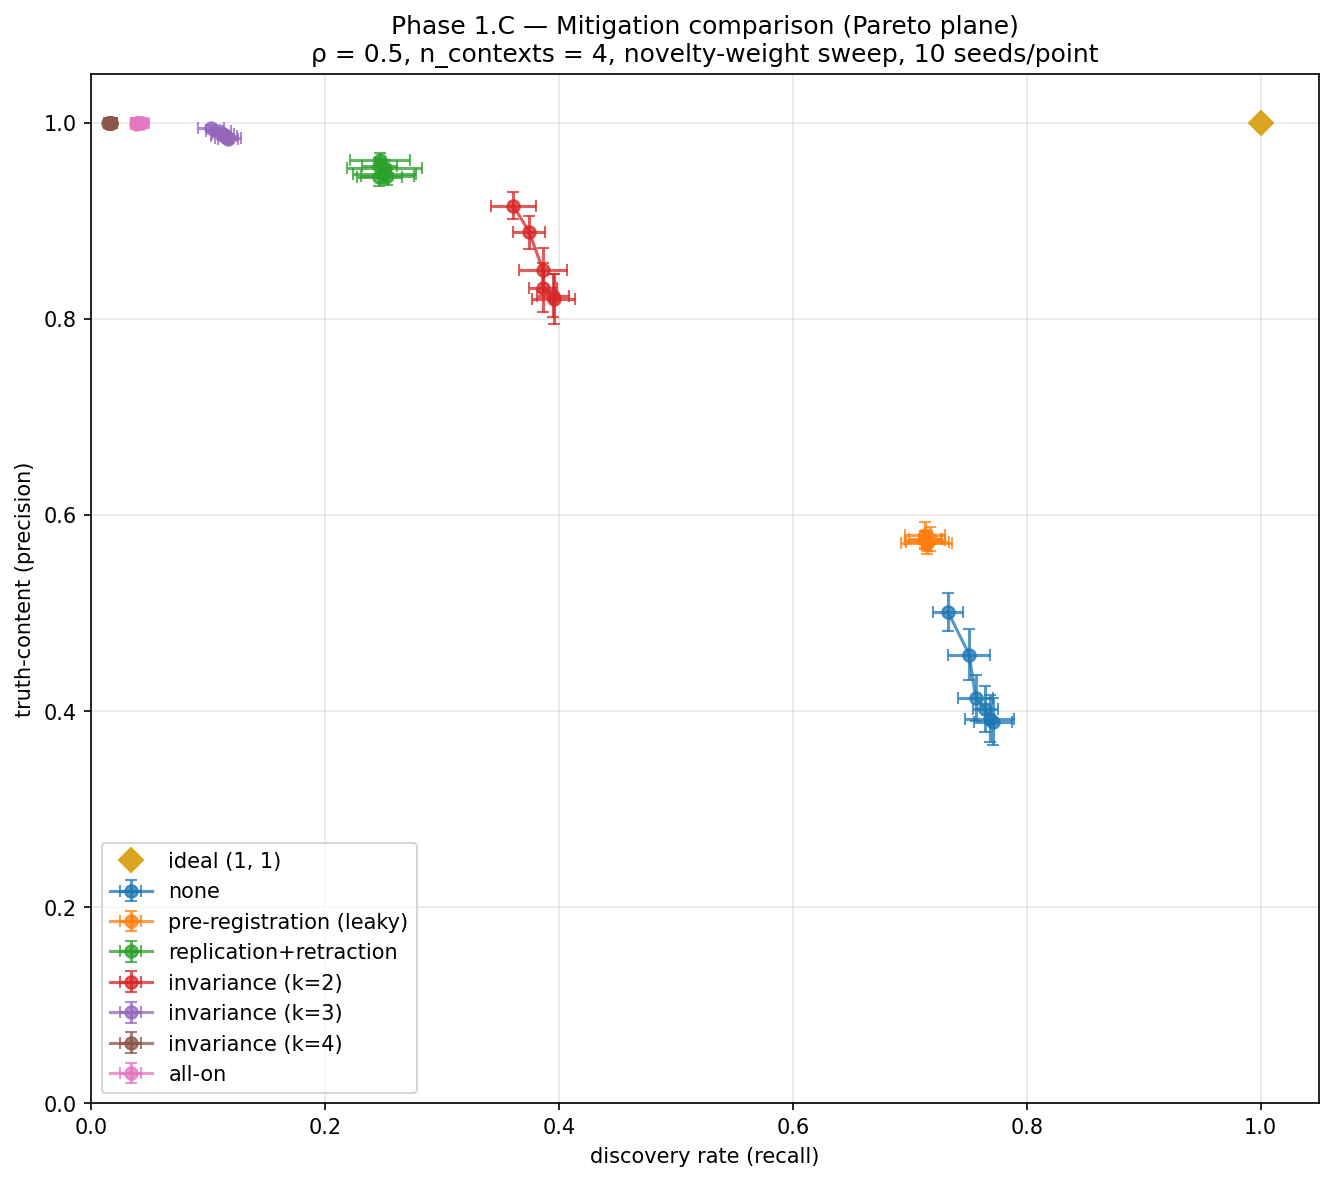
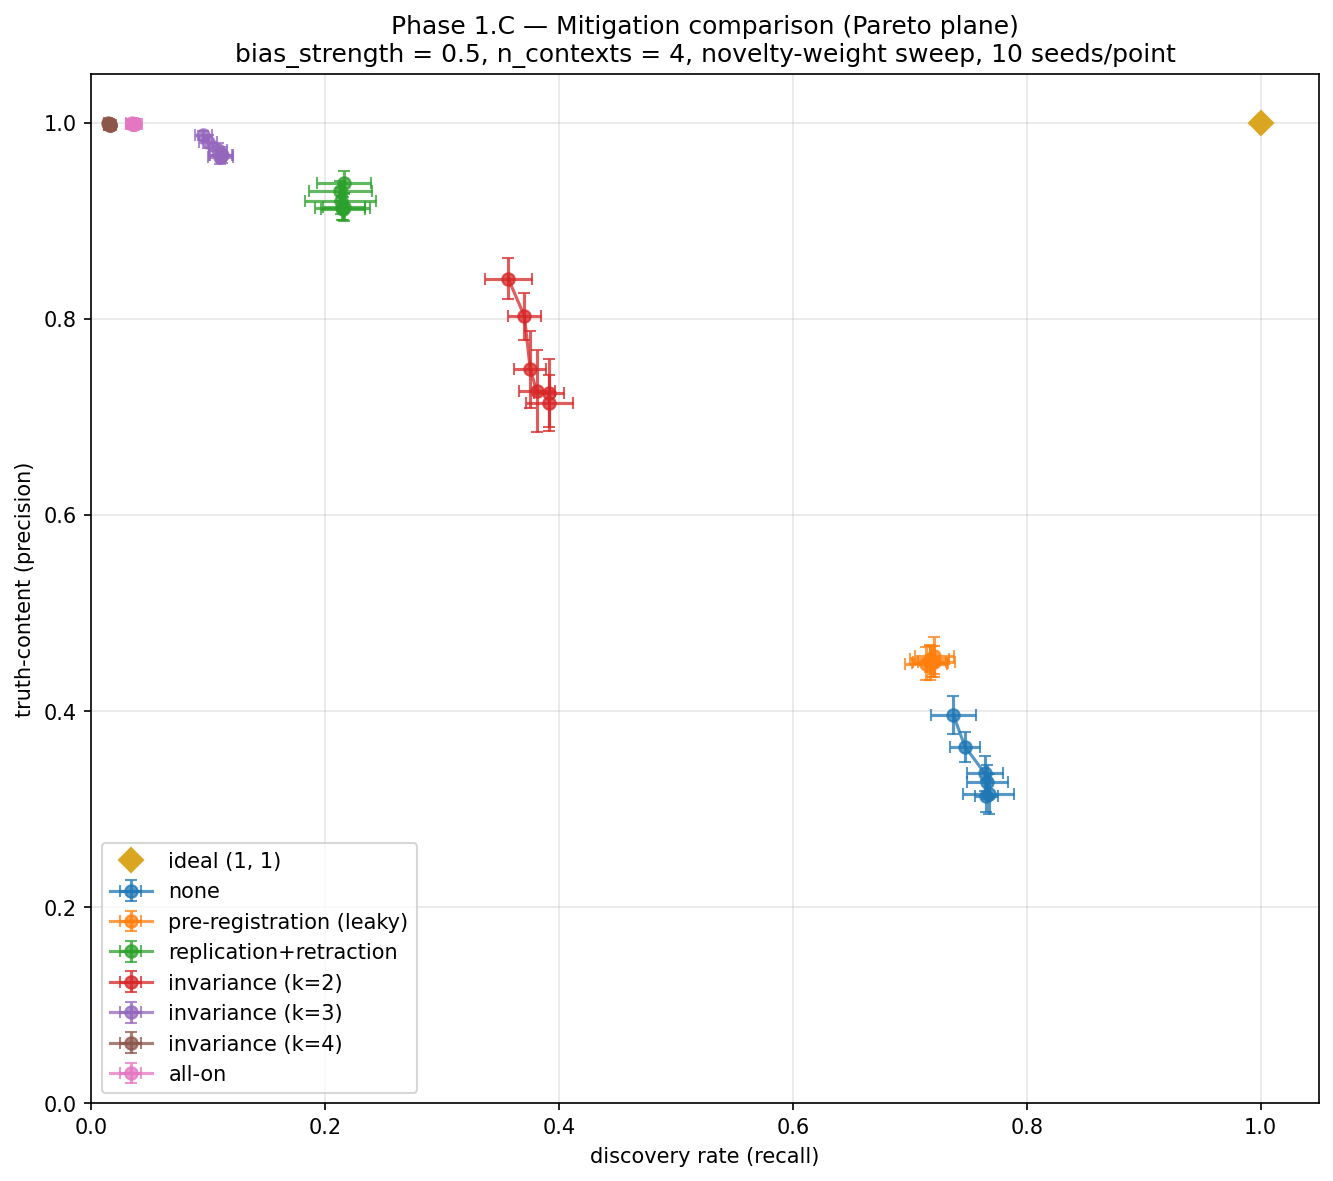
Phase 1.C: re-run under additive-bias noise model
Same regime as before (n_hypotheses=10000, n_contexts=4, n_steps=500,
10 seeds, mitigations identical) but bias_strength=0.5 replaces the prior
correlated_error_rho=0.5. The corrected noise model is additive
(Z = δ + bias + private, bias ~ N(0, bias_strength²), private ~ N(0, 1))
so Var(Z) under H0 = 1.25 (not 1) at this parameter value — that lifts
average FPR somewhat and pulls all the precision numbers down 5-10 pp
relative to the prior run.

Qualitative shape: unchanged. Same multi-mitigation Pareto frontier,
same ordering, same headline (no single dominant mitigation; pre-reg
leaky / invariance k=2 / R+R / invariance k=3 all populate the frontier
at different trade-off points). The strict-invariance data-hungriness
finding holds; the leaky-pre-reg-dominates-none finding holds.

Updated example-runs/README.md with new numbers and an explicit note on
the noise-model change.

Also restored the Phase 1.D sweep script as scripts/run_bias_sensitivity.py
(renamed from the pre-noise-fix run_rho_sensitivity.py; parameter and
docstring updated for the corrected model). Ready to run; result is
expected to look very different from the broken-model Phase 1.D since the
artifact (audit-private-noise shrinkage at high rho) is now gone.

diff --git a/scripts/run_bias_sensitivity.py b/scripts/run_bias_sensitivity.py
@@ -1,0 +1,250 @@
+"""Phase 1.D — systematic-bias sensitivity sweep.
+
+The central falsifiable claim: *invariance-style mitigations dominate
+audit-style ones under sufficiently strong systematic bias.*
+
+Phase 1.C showed all four mitigations sitting on a Pareto frontier at a
+single bias_strength = 0.5. This script traces how each mitigation's position
+moves as bias_strength varies, holding everything else fixed. The prediction
+under the corrected (additive) noise model:
+
+  * `none`, `pre-registration (leaky)`: precision approximately bias-independent
+    (neither addresses the per-(h, ctx) systematic bias mechanism — pre-reg
+    clamps QRP, neither touches the bias).
+  * `replication+retraction`: precision *falls* as bias_strength rises. The
+    audit replicate uses the SAME per-(hypothesis, context) bias as the
+    original study, so a lucky positive-bias FP gets confirmed by the audit
+    (the bias that drove the original FP also pushes the audit Z above the
+    threshold). The audit's *private* noise is fresh and unchanged in scale —
+    it can no longer artificially shrink with bias_strength, so it doesn't
+    rescue the audit at high bias.
+  * `invariance (k=2)`: precision approximately bias-independent or rising.
+    The multi-context bar uses *independent* per-(h, ctx) biases, so a lucky
+    bias in context A cannot carry a false positive past invariance's
+    two-context requirement — the bias in context B is an independent draw.
+
+  ⇒ At some bias_strength the precision curves of R+R and invariance cross.
+    Below the crossover, R+R wins; above it, invariance wins.
+
+The regime is the Phase 1.C regime (n_hypotheses=10000, n_contexts=4,
+n_steps=500, novelty_weight fixed at 10) — uniform hypothesis selection,
+so high-k invariance is not viable here (Phase 1.C found ~2% recall at
+k=4). Phase 1.D focuses on the k=2 vs R+R competition, which has enough
+data to be meaningful (~38% k=2 recall at this regime). The non-uniform-
+attention upgrade tracked in FUTURE_WORK.md will let a later re-run
+include the high-k variants.
+
+Run:
+    uv run python scripts/run_bias_sensitivity.py
+
+Output: a fresh per-run directory under ``results/`` containing
+    config.json             — SimConfig + sweep spec + git state
+    data.csv                — per-(mitigation, bias_strength, seed) results
+    bias_sensitivity.png    — two-panel figure (precision-vs-bias + Pareto plane)
+"""
+from __future__ import annotations
+
+import math
+
+import numpy as np
+import matplotlib.pyplot as plt
+
+from paper_chase.config import (
+    SimConfig, IncentiveConfig, WorldConfig, StudyConfig,
+)
+from paper_chase.simulation import run
+from paper_chase.mitigations import (
+    PreRegistration, ReplicationAndRetraction, InvarianceRequirement,
+)
+from paper_chase.results_io import (
+    make_run_dir, save_config_json, save_data_csv, capture_git_state,
+)
+
+
+# ---- Sweep parameters ----
+BIAS_STRENGTHS = [0.0, 0.25, 0.5, 0.75, 1.0]   # SD of per-(h, ctx) systematic bias
+N_SEEDS = 10
+NOVELTY_WEIGHT = 10.0          # mid-pressure: dynamic is fully developed but not extreme
+REPLICATION_WEIGHT = 1.0
+EFFORT_COST_PER_SAMPLE = 0.02
+N_CONTEXTS = 4
+N_HYPOTHESES = 10_000          # same regime as Phase 1.C — sparse-attention world
+
+
+# Mitigation factories — fresh instances per sim (stateful mitigations like
+# InvarianceRequirement maintain per-hypothesis evidence buffers that must
+# reset between independent runs).
+#
+# Scope chosen for the comparison Phase 1.D is built around:
+#   * `none` — baseline reference; precision should fall with bias (lucky-bias FPs persist)
+#   * `pre-registration (leaky)` — bias-orthogonal control (clamps QRP, doesn't touch bias)
+#   * `replication+retraction` — audit-style; predicted to degrade with bias
+#   * `invariance (k=2)` — invariance-style; predicted to be bias-robust
+#
+# k=3, k=4 invariance are excluded because at this regime (sparse uniform
+# attention) they publish almost nothing (Phase 1.C found ~10% and ~2% recall
+# respectively). A future re-run under non-uniform attention will include them.
+MITIGATION_FACTORIES = {
+    "none":                          lambda: [],
+    "pre-registration (leaky)":      lambda: [PreRegistration(qrp_cap=0.1)],
+    "replication+retraction":        lambda: [ReplicationAndRetraction(audit_fraction=0.1)],
+    "invariance (k=2)":              lambda: [InvarianceRequirement(k_contexts=2)],
+}
+
+
+def main() -> None:
+    params = f"bs{BIAS_STRENGTHS[0]:g}-{BIAS_STRENGTHS[-1]:g}_seeds{N_SEEDS}_nw{NOVELTY_WEIGHT:g}_nh{N_HYPOTHESES}"
+    run_dir = make_run_dir(experiment="bias_sensitivity", params=params)
+    print(f"Run dir: {run_dir}")
+
+    base_world = WorldConfig(n_hypotheses=N_HYPOTHESES, n_contexts=N_CONTEXTS, seed=0)
+
+    save_config_json(
+        run_dir / "config.json",
+        # Base config snapshot uses bias_strength=0 for the schema; per-sim value set in the loop.
+        base_cfg=SimConfig(world=base_world, study=StudyConfig(bias_strength=0.0)),
+        sweep={
+            "mitigations": list(MITIGATION_FACTORIES.keys()),
+            "bias_strengths": list(BIAS_STRENGTHS),
+            "n_seeds": N_SEEDS,
+            "fixed_novelty_weight": NOVELTY_WEIGHT,
+            "fixed_replication_weight": REPLICATION_WEIGHT,
+            "fixed_effort_cost_per_sample": EFFORT_COST_PER_SAMPLE,
+            "n_contexts": N_CONTEXTS,
+            "n_hypotheses": N_HYPOTHESES,
+            "mitigation_parameters": {
+                "pre-registration (leaky)": "PreRegistration(qrp_cap=0.1)",
+                "replication+retraction":   "ReplicationAndRetraction(audit_fraction=0.1)",
+                "invariance (k=2)":         "InvarianceRequirement(k_contexts=2)",
+            },
+        },
+        git_state=capture_git_state(),
+    )
+
+    # Per-seed raw rows; aggregates derived from these for the plot.
+    rows: list[dict] = []
+    aggregates: dict[str, dict] = {}
+
+    for mit_name, factory in MITIGATION_FACTORIES.items():
+        aggregates[mit_name] = {
+            "bias_strength": [], "precision_mean": [], "precision_sd": [],
+            "recall_mean": [], "recall_sd": [],
+        }
+        for bs in BIAS_STRENGTHS:
+            precisions: list[float] = []
+            recalls: list[float] = []
+            for seed in range(N_SEEDS):
+                cfg = SimConfig(
+                    world=base_world,
+                    study=StudyConfig(bias_strength=bs),
+                    incentive=IncentiveConfig(
+                        novel_weight=NOVELTY_WEIGHT,
+                        replication_weight=REPLICATION_WEIGHT,
+                        effort_cost_per_sample=EFFORT_COST_PER_SAMPLE,
+                    ),
+                    seed=seed,
+                )
+                result = run(cfg, mitigations=factory())
+                last = result.history[-1]
+                tc = float(last["truth_content"])
+                dr = float(last["discovery_rate"])
+                rows.append({
+                    "mitigation": mit_name,
+                    "bias_strength": bs,
+                    "seed": seed,
+                    "truth_content": tc,
+                    "discovery_rate": dr,
+                    "n_standing": last["n_standing"],
+                })
+                if not (math.isnan(tc) or math.isnan(dr)):
+                    precisions.append(tc)
+                    recalls.append(dr)
+                print(
+                    f"mit={mit_name:>27}  bs={bs:>4.2f}  seed={seed}  "
+                    f"tc={tc:.3f}  dr={dr:.3f}  n={last['n_standing']}"
+                )
+
+            if precisions:
+                aggregates[mit_name]["bias_strength"].append(bs)
+                aggregates[mit_name]["precision_mean"].append(float(np.mean(precisions)))
+                aggregates[mit_name]["precision_sd"].append(
+                    float(np.std(precisions, ddof=1)) if len(precisions) > 1 else 0.0
+                )
+                aggregates[mit_name]["recall_mean"].append(float(np.mean(recalls)))
+                aggregates[mit_name]["recall_sd"].append(
+                    float(np.std(recalls, ddof=1)) if len(recalls) > 1 else 0.0
+                )
+
+    save_data_csv(run_dir / "data.csv", rows)
+
+    # Two-panel figure: precision vs bias_strength (headline diagnostic) and
+    # the Pareto plane (one trajectory per mitigation across bias_strength).
+    fig, (ax_bs, ax_pareto) = plt.subplots(1, 2, figsize=(14, 6))
+
+    for i, mit_name in enumerate(MITIGATION_FACTORIES.keys()):
+        agg = aggregates[mit_name]
+        if not agg["bias_strength"]:
+            print(f"warning: no plotable points for mitigation {mit_name!r}")
+            continue
+        color = f"C{i}"
+
+        # Left: precision vs bias_strength
+        ax_bs.errorbar(
+            agg["bias_strength"], agg["precision_mean"], yerr=agg["precision_sd"],
+            fmt="o-", capsize=3, color=color, label=mit_name,
+        )
+
+        # Right: Pareto plane, one trajectory per mitigation across bias_strength.
+        # Annotate endpoints with their bias_strength so direction of travel is legible.
+        ax_pareto.errorbar(
+            agg["recall_mean"], agg["precision_mean"],
+            xerr=agg["recall_sd"], yerr=agg["precision_sd"],
+            fmt="o-", capsize=3, alpha=0.75, color=color, label=mit_name,
+        )
+        ax_pareto.annotate(
+            f"bs={agg['bias_strength'][0]:g}",
+            (agg["recall_mean"][0], agg["precision_mean"][0]),
+            textcoords="offset points", xytext=(6, 6), fontsize=8, color=color,
+        )
+        ax_pareto.annotate(
+            f"bs={agg['bias_strength'][-1]:g}",
+            (agg["recall_mean"][-1], agg["precision_mean"][-1]),
+            textcoords="offset points", xytext=(6, -10), fontsize=8, color=color,
+        )
+
+    # Ideal corner reference on the Pareto plane.
+    ax_pareto.plot(
+        1.0, 1.0, marker="D", color="goldenrod", markersize=8,
+        linestyle="None", label="ideal (1, 1)",
+    )
+
+    ax_bs.set_xlabel("bias strength (SD of per-(h, ctx) systematic bias)")
+    ax_bs.set_ylabel("truth-content (precision)")
+    ax_bs.set_title("Precision vs bias strength — direct comparison")
+    ax_bs.set_xlim(-0.05, max(BIAS_STRENGTHS) + 0.05)
+    ax_bs.set_ylim(0, 1.05)
+    ax_bs.grid(True, alpha=0.3)
+    ax_bs.legend(loc="lower left")
+
+    ax_pareto.set_xlabel("discovery rate (recall)")
+    ax_pareto.set_ylabel("truth-content (precision)")
+    ax_pareto.set_title("Pareto plane — trajectory across bias strength")
+    ax_pareto.set_xlim(0, 1.05)
+    ax_pareto.set_ylim(0, 1.05)
+    ax_pareto.grid(True, alpha=0.3)
+    ax_pareto.legend(loc="lower left")
+
+    fig.suptitle(
+        f"Phase 1.D — bias-strength sensitivity (novelty_weight = {NOVELTY_WEIGHT:g}, "
+        f"n_contexts = {N_CONTEXTS}, {N_SEEDS} seeds/point)",
+        y=1.02,
+    )
+    fig.tight_layout()
+
+    fig_path = run_dir / "bias_sensitivity.png"
+    fig.savefig(fig_path, dpi=150, bbox_inches="tight")
+    print(f"\nSaved: {fig_path}")
+
+
+if __name__ == "__main__":
+    main()

diff --git a/example-runs/README.md b/example-runs/README.md
@@ -47,8 +47,9 @@ mitigations.
 **What was run.** Sweep of the novelty:replication reward ratio across
 {1, 2, 5, 10, 20, 50} × {no mitigation, pre-registration (leaky, qrp_cap=0.1),
 replication+retraction, invariance (k=2), invariance (k=3), invariance (k=4),
-all-on}; 10 seeds per condition. Correlated errors active at ρ = 0.5
-(moderate). The hypothesis space is sized to represent the realistic
+all-on}; 10 seeds per condition. Systematic-bias active at
+`bias_strength = 0.5` (moderate — per-(h, ctx) bias SD = 0.5 vs. unit-variance
+sampling noise). The hypothesis space is sized to represent the realistic
 "vast hypothesis space, scarce attention" regime: `n_hypotheses = 10,000`
 against ~22,500 novel actions over the run gives ~2.25 studies per
 hypothesis under uniform random selection — most plausible hypotheses go
@@ -58,6 +59,19 @@ must appear in every context). Pre-registration is modeled as *leaky*:
 qrp_cap = 0.1 allows residual analytic flexibility, since perfect enforcement
 is unrealistic and would only set an upper bound.
 Script: [`scripts/run_mitigation_comparison.py`](../scripts/run_mitigation_comparison.py).
+
+> **Note on the noise model.** This run uses the corrected additive-bias
+> noise model: `Z = δ + bias + private` with `bias ~ N(0, bias_strength²)`
+> per (h, ctx) and `private ~ N(0, 1)` per study, both independent and
+> additive. An earlier version used a Gaussian-copula formulation
+> (`Z = δ + ρ·shared + sqrt(1-ρ²)·private`) which preserved total per-study
+> variance at 1 by trading private noise for shared noise as ρ rose. That
+> formulation artificially shrank audit-replicate noise at high ρ, giving
+> the same-base-model audit (`ReplicationAndRetraction`) an unrealistic
+> advantage. The qualitative Pareto-frontier shape below is unchanged from
+> the prior run, but absolute precision numbers are 5–10 percentage points
+> lower because the corrected model has higher total noise (Var(Z) under H0
+> = 1 + bias_strength² = 1.25, not 1).
 
 **Result.**
 
@@ -69,12 +83,12 @@ invariance strictness gradient (k = 2 → 3 → 4) on the high-precision end:
 
 | Mitigation | Precision range | Recall range | Position |
 |---|---|---|---|
-| `none` | 0.39–0.50 | 0.73–0.77 | Baseline; QRP-driven precision loss with novelty pressure |
-| `pre-reg (leaky)` | ≈ 0.57 | ≈ 0.71 | Pareto-dominates `none` (mild gain in both axes) |
-| `invariance (k=2)` | 0.82–0.91 | 0.36–0.40 | **On the frontier** — trades recall for precision |
-| `replication+retraction` | 0.94–0.96 | ≈ 0.25 | **On the frontier** — audit retracts many TPs given sparse confirming evidence |
-| `invariance (k=3)` | 0.98–0.99 | 0.10–0.12 | **On the frontier** — high precision, low recall |
-| `invariance (k=4)` | ≈ 1.00 | ≈ 0.02 | Extreme: publishes almost nothing |
+| `none` | 0.31–0.40 | 0.74–0.77 | Baseline; QRP-driven precision loss with novelty pressure |
+| `pre-reg (leaky)` | ≈ 0.45 | ≈ 0.72 | Pareto-dominates `none` (mild gain in both axes) |
+| `invariance (k=2)` | 0.71–0.84 | 0.36–0.39 | **On the frontier** — trades recall for precision |
+| `replication+retraction` | 0.91–0.94 | ≈ 0.21 | **On the frontier** — audit retracts many TPs given sparse confirming evidence |
+| `invariance (k=3)` | 0.97–0.99 | 0.10–0.11 | **On the frontier** — high precision, low recall |
+| `invariance (k=4)` | ≈ 1.00 | ≈ 0.01 | Extreme: publishes almost nothing |
 | `all-on` | ≈ 1.00 | ≈ 0.04 | Collapses to k=4-like behavior (strictest filter dominates) |
 
 **Headline finding: there is no single "best" mitigation; the frontier is
@@ -87,15 +101,17 @@ which end of the frontier matters in deployment.
 **Why `none` recall lands at ~0.75, not 1.0**: per-study power under default
 config (effect size d ≈ 0.4, n = 30 samples, α = 0.05) is ~0.71 without QRP
 and ~0.90 with moderate QRP. With ~2.25 studies per H, recall ≈ 1 −
-exp(−2.25 × effective_power) ≈ 0.75–0.80. ρ = 0.5 correlated errors reduce
-effective independent power slightly. This is the model's honest output for
-"moderately-studied effects in a vast hypothesis space" — the regime where
-the replication-crisis dynamic is interpretable.
+exp(−2.25 × effective_power) ≈ 0.75–0.80. Systematic bias at `bias_strength`
+= 0.5 doesn't reduce per-study power directly — it just inflates the
+average false-positive rate by adding a per-(h, ctx) offset to Z. This is
+the model's honest output for "moderately-studied effects in a vast
+hypothesis space" — the regime where the replication-crisis dynamic is
+interpretable.
 
 **Why high-k invariance publishes so little**: with ~2.25 studies per H and
 uniform context sampling over 4 contexts, the expected number of distinct
 contexts hit per H is 4 × (1 − (3/4)^2.25) ≈ 1.85. So k = 2 catches ~38% of
-true H, k = 3 catches ~11%, k = 4 catches ~2%. **This is a real finding, not
+true H, k = 3 catches ~11%, k = 4 catches ~1%. **This is a real finding, not
 an artifact: strict invariance is data-hungry.** The regime where high-k
 invariance shines is one where attention concentrates on a subset of
 hypotheses — i.e., real scientific practice, where well-studied topics
@@ -107,9 +123,10 @@ tracked in [FUTURE_WORK.md](../FUTURE_WORK.md).
 stack dominates. Once k = 3 invariance is in place, it gates publication so
 strictly that adding pre-reg and audit changes little.
 
-**Phase 1.D — ρ-sweep** will trace how the frontier shifts as correlated
-errors strengthen. The most actionable comparisons are likely at the
-moderately-strict end (pre-reg leaky, invariance k=2, replication+retraction)
-where every mitigation has visible recall and precision both. If invariance's
-advantage over audit-style mitigations is real, it should sharpen at higher ρ
-where shared shocks defeat single-context replication.
+**Phase 1.D — bias-strength sweep** will trace how the frontier shifts as
+systematic bias strengthens. The most actionable comparisons are likely at
+the moderately-strict end (pre-reg leaky, invariance k=2,
+replication+retraction) where every mitigation has visible recall and
+precision. If invariance's advantage over audit-style mitigations is real,
+it should sharpen at higher `bias_strength` where same-base-model audits can
+no longer break correlated false positives via fresh sampling noise.
